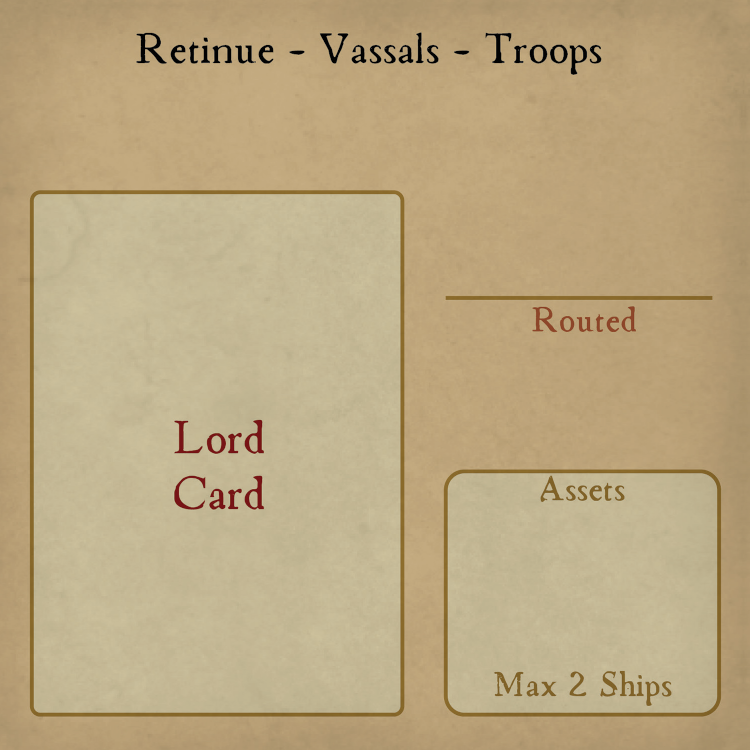
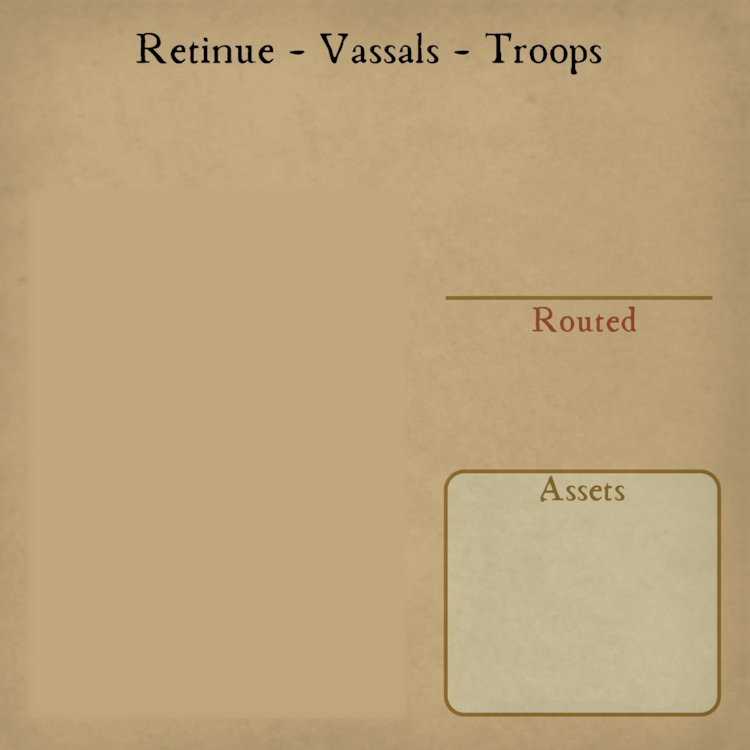
new lord mat without distracting text and card place graphic

diff --git a/play.css b/play.css
@@ -337,7 +337,6 @@ body.Lancaster #plan_actions .york { display: none }
 	width: 44px;
 	height: 48px;
 	background-size: 44px 48px;
-	filter: drop-shadow(0px 2px 4px #0004);
 }
 
 .cylinder.action {
@@ -478,10 +477,14 @@ body.Lancaster #plan_actions .york { display: none }
 	border-radius: 12px;
 	border-width: 2px;
 	border-style: solid;
-	background-image: url(images/lord_mat_75.png);
 	background-size: 375px 375px;
 	background-repeat: no-repeat;
 	z-index: 4;
+}
+
+.mat .board { background-image: url(images/lord_mat_75.jpg); }
+@media (min-resolution: 97dpi) {
+	.mat .board { background-image: url(images/lord_mat_150.jpg); }
 }
 
 .mat.command .board { box-shadow: 0 0 0 1px #584800, 0 0 0 4px gold; }

diff --git a/play.js b/play.js
@@ -1,5 +1,6 @@
 "use strict"
 
+// TODO: tooltip lord card when mouseover cylinder
 
 function toggle_pieces() {
 	document.getElementById("pieces").classList.toggle("hide")
@@ -834,10 +835,10 @@ function layout_calendar() {
 			let len_lanc = calendar_layout_lanc[loc].length
 			let len_york = calendar_layout_york[loc].length
 			if (len_lanc <= len_york) {
-				y += len_lanc * 30 + 48-30 + 3 + i * 20
+				y += len_lanc * 30 + 48-30 + 3 + i * 32
 				x += 7
 			} else {
-				y += len_york * 30 + 48-30 + 3 + i * 20
+				y += len_york * 30 + 48-30 + 3 + i * 32
 				x += 42
 			}
 			e.style.top = y + "px"
